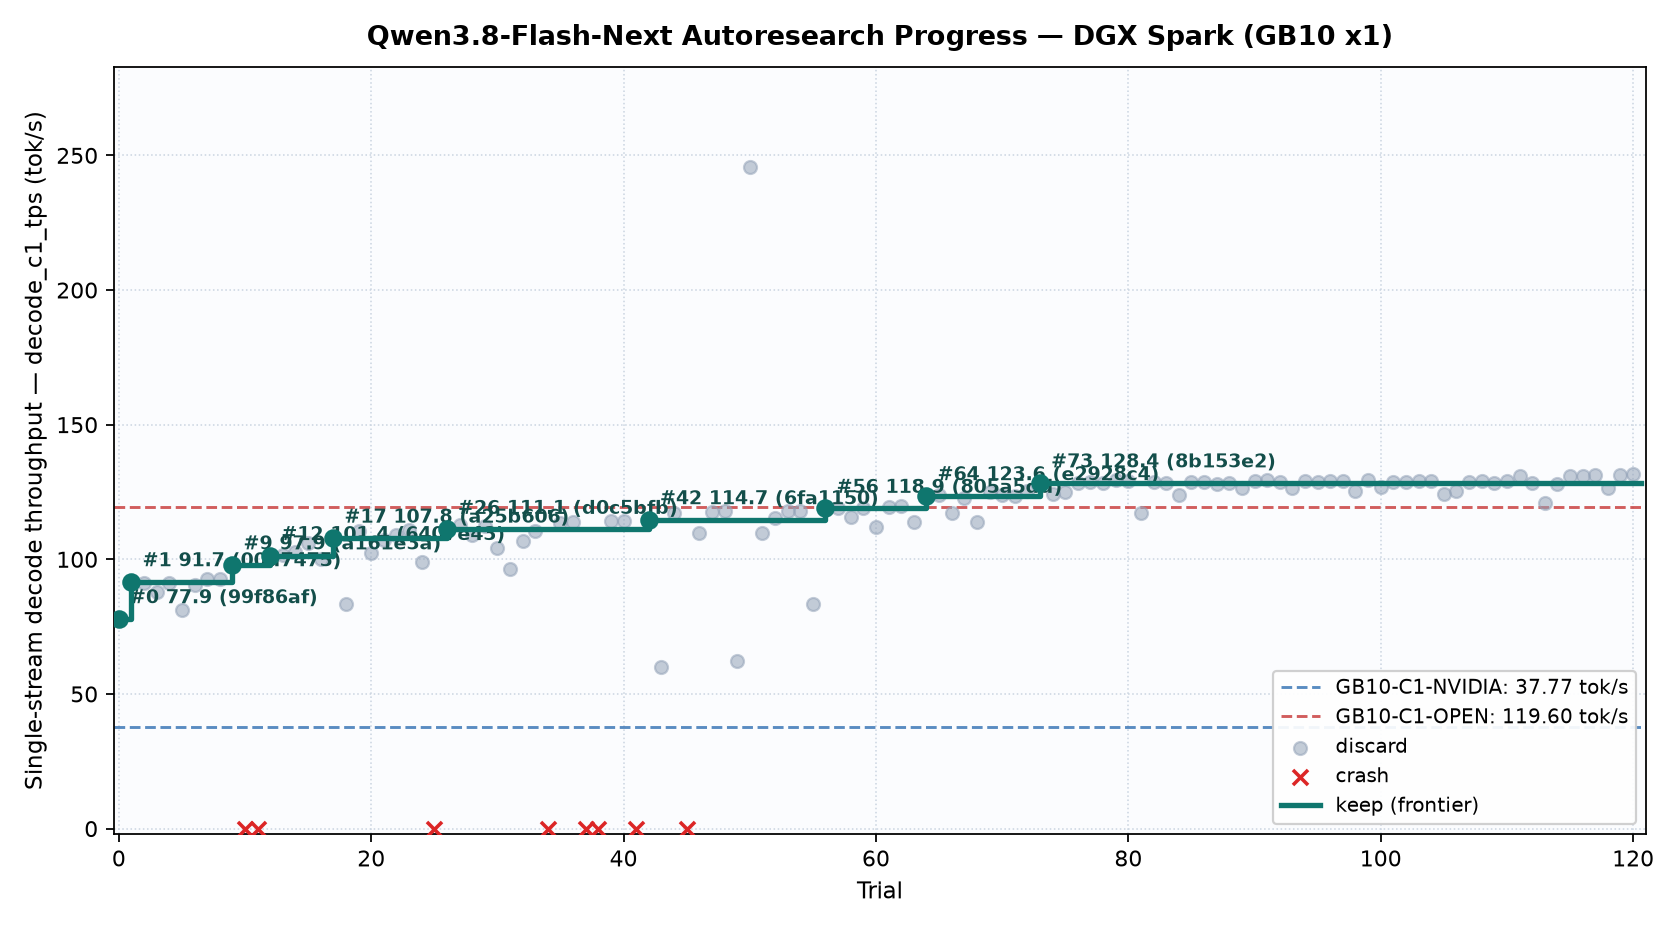
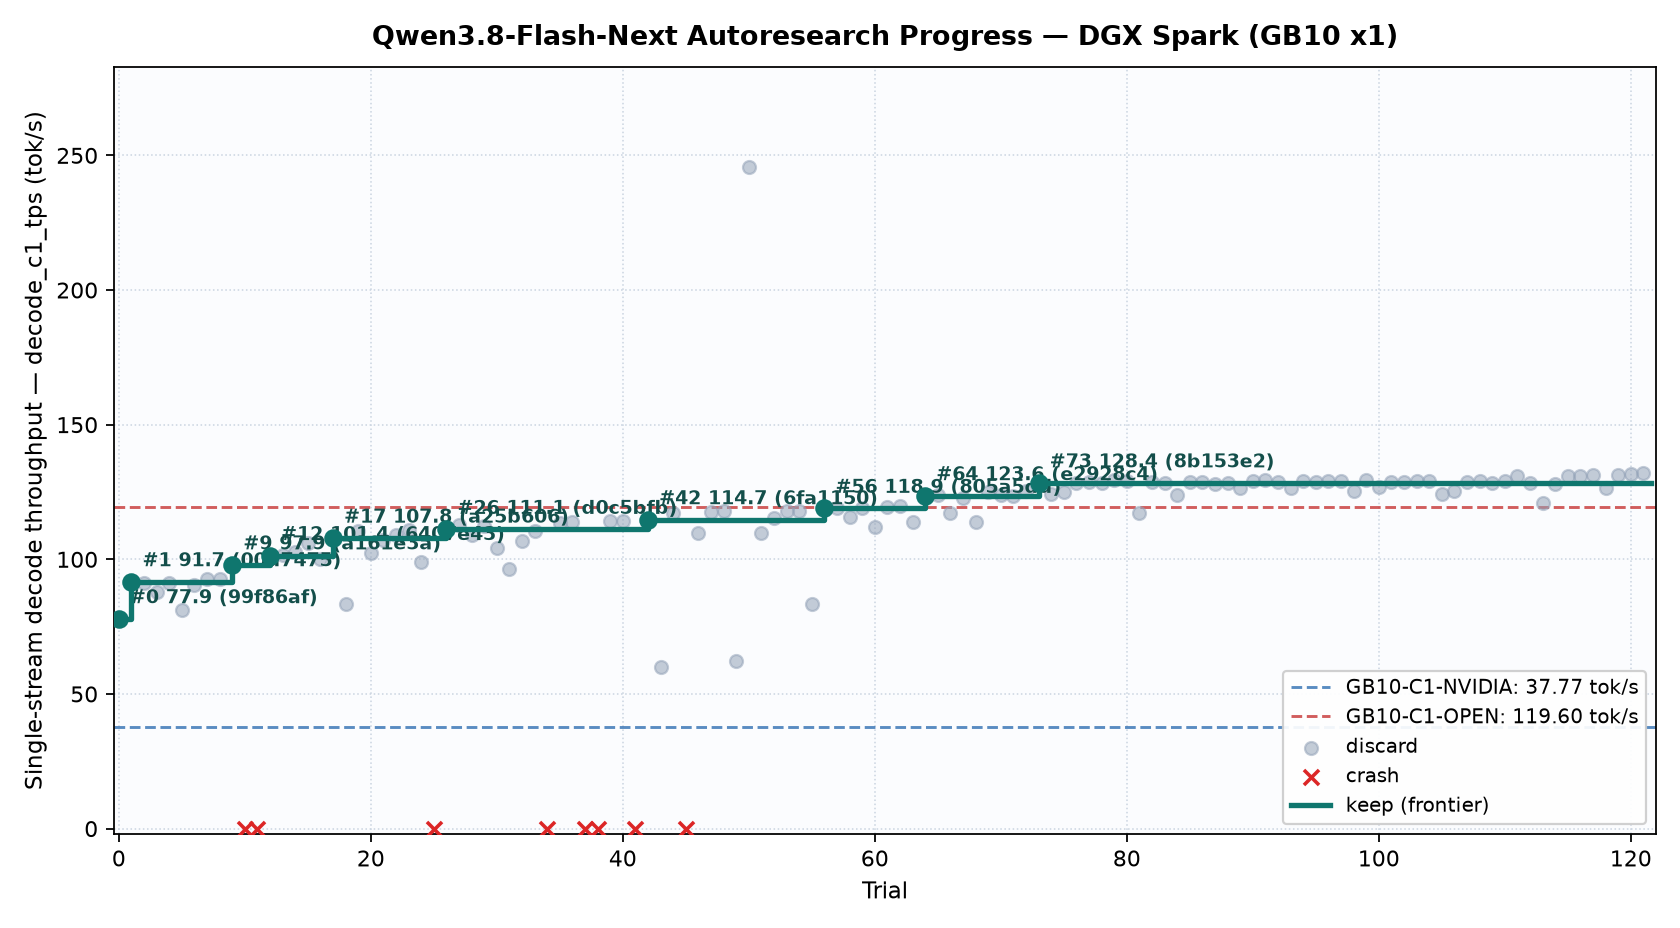
spark trial 121: discard

diff --git a/records/research-log.md b/records/research-log.md
@@ -150,3 +150,4 @@ Deprioritized: **3-bit expert weights** (Hibana +43% but GPQA -0.3, LCB -2.3; on
 | 2026-11-21 19:11 | 118 (new stack) | <https://github.com/sgl-project/sglang/pull/52054> | Six upstream feeds checked. SGLang updates sampled verification penalties. Trial 117 reached 131.48 tok/s with matching hashes. | Defer the sampling patch. On trial 117, minimize reconstruction error over three adjacent E4M3 scales per INT6 MTP dense group; keep the NVFP4 target fixed. |
 | 2026-11-21 19:20 | 119 (new stack) | <https://github.com/sgl-project/sglang/pull/50032> | Checked six releases, commit feeds and PR feeds. SGLang reduces CPU work per speculative step. Trial 118 recorded 126.56 tok/s (discard, hash_match=1). | Adapt the host-overhead idea: use GPU-mapped pinned buffers for control and result exchange in the MTP graph, keeping the existing stream synchronization. |
 | 2026-11-21 19:28 | 120 (new stack) | <https://github.com/prestonlogan/Qwen3.8-Flash-Next-Single-DGX-Spark-Ultrafast/blob/f78aa363d05a5dd351d932024822064b079ceffc/docs/optimization-notes.md> | Six engine feeds checked. A separate Hibana fast report measures 133.3 code tok/s with 512 output tokens and a 131072-row draft shortlist. Local G198 remains unreported. Trial 119 recorded 131.22 tok/s (discard, hash_match=1). | Adapt its shortlist experiment to TensorFold, which already starts with 79591 draft rows. Score the first 65536 in the binary projection and retain the full target verifier. |
+| 2026-11-21 19:37 | 121 (new stack) | <https://github.com/sgl-project/sglang/pull/52062> | Checked six upstream release, commit and PR feeds. SGLang supports compact recurrent verification for hybrid GDN. Trial 120 recorded 131.59 tok/s (discard, hash_match=1). | Keep the TensorFold row layout. Load contiguous value vectors and gate coefficients alongside each four-row key/query tile in the DeltaNet verifier. |
